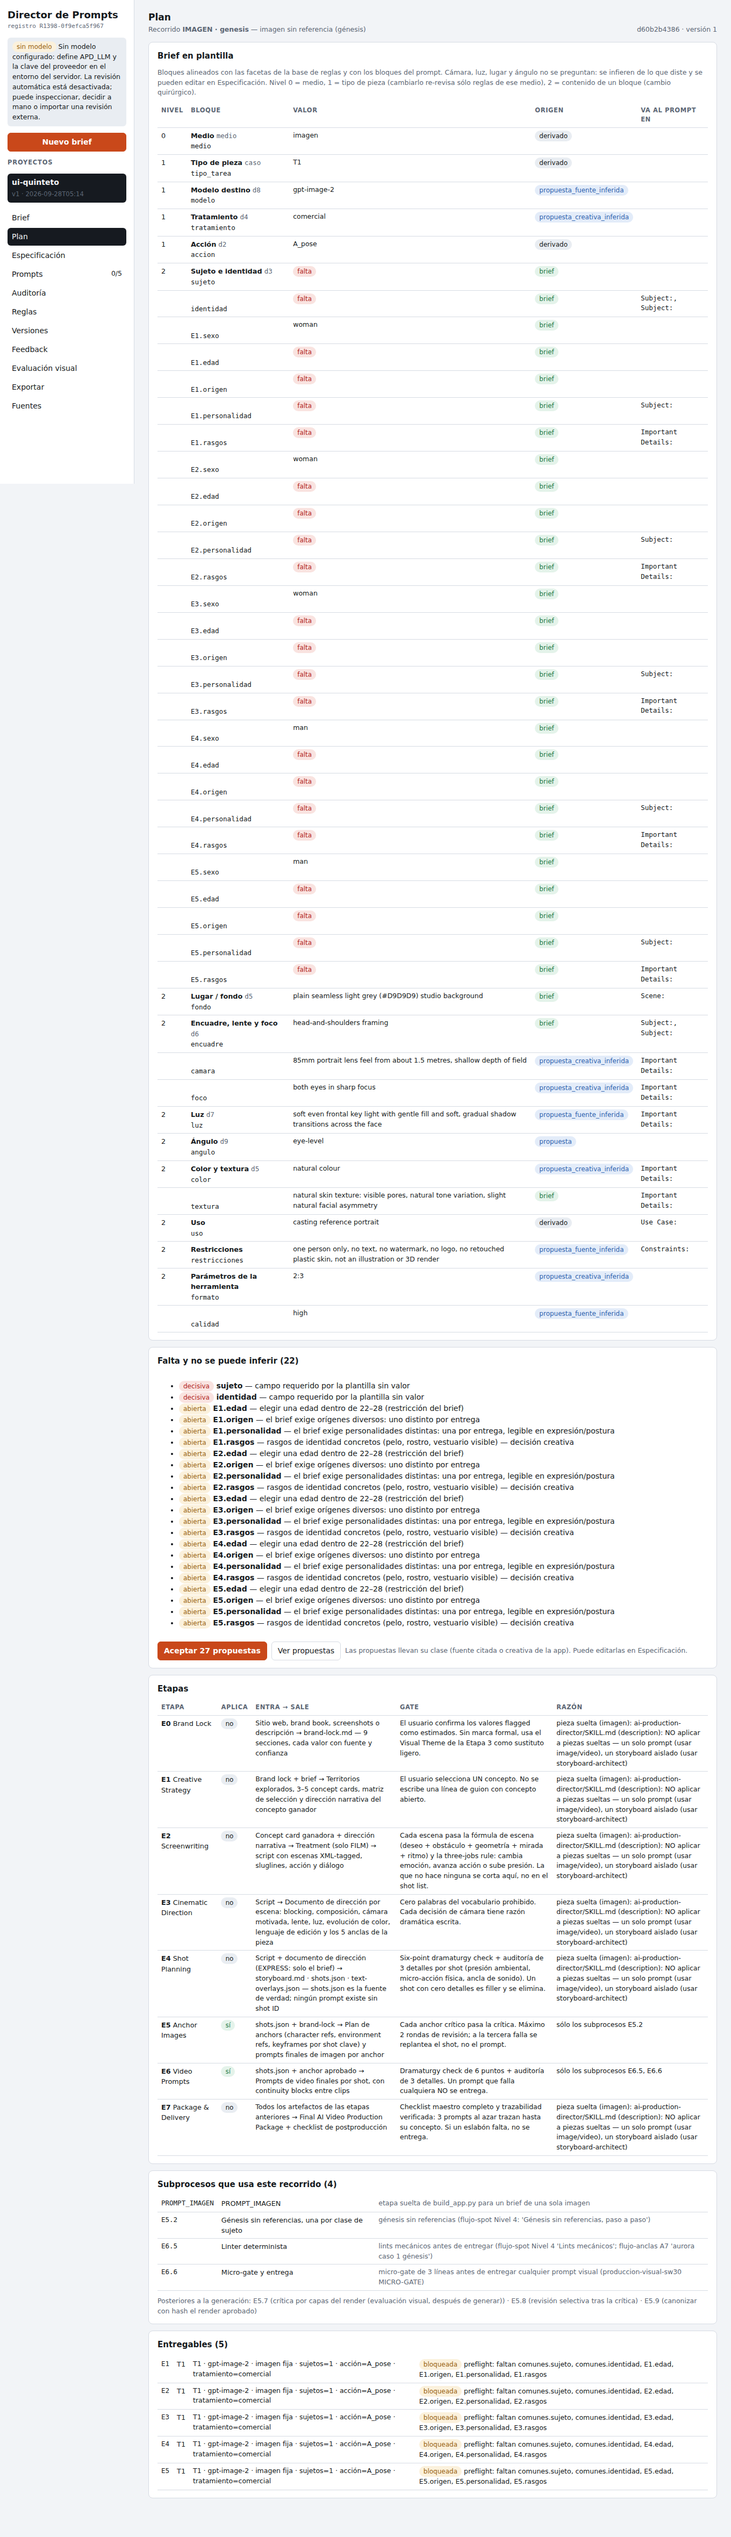
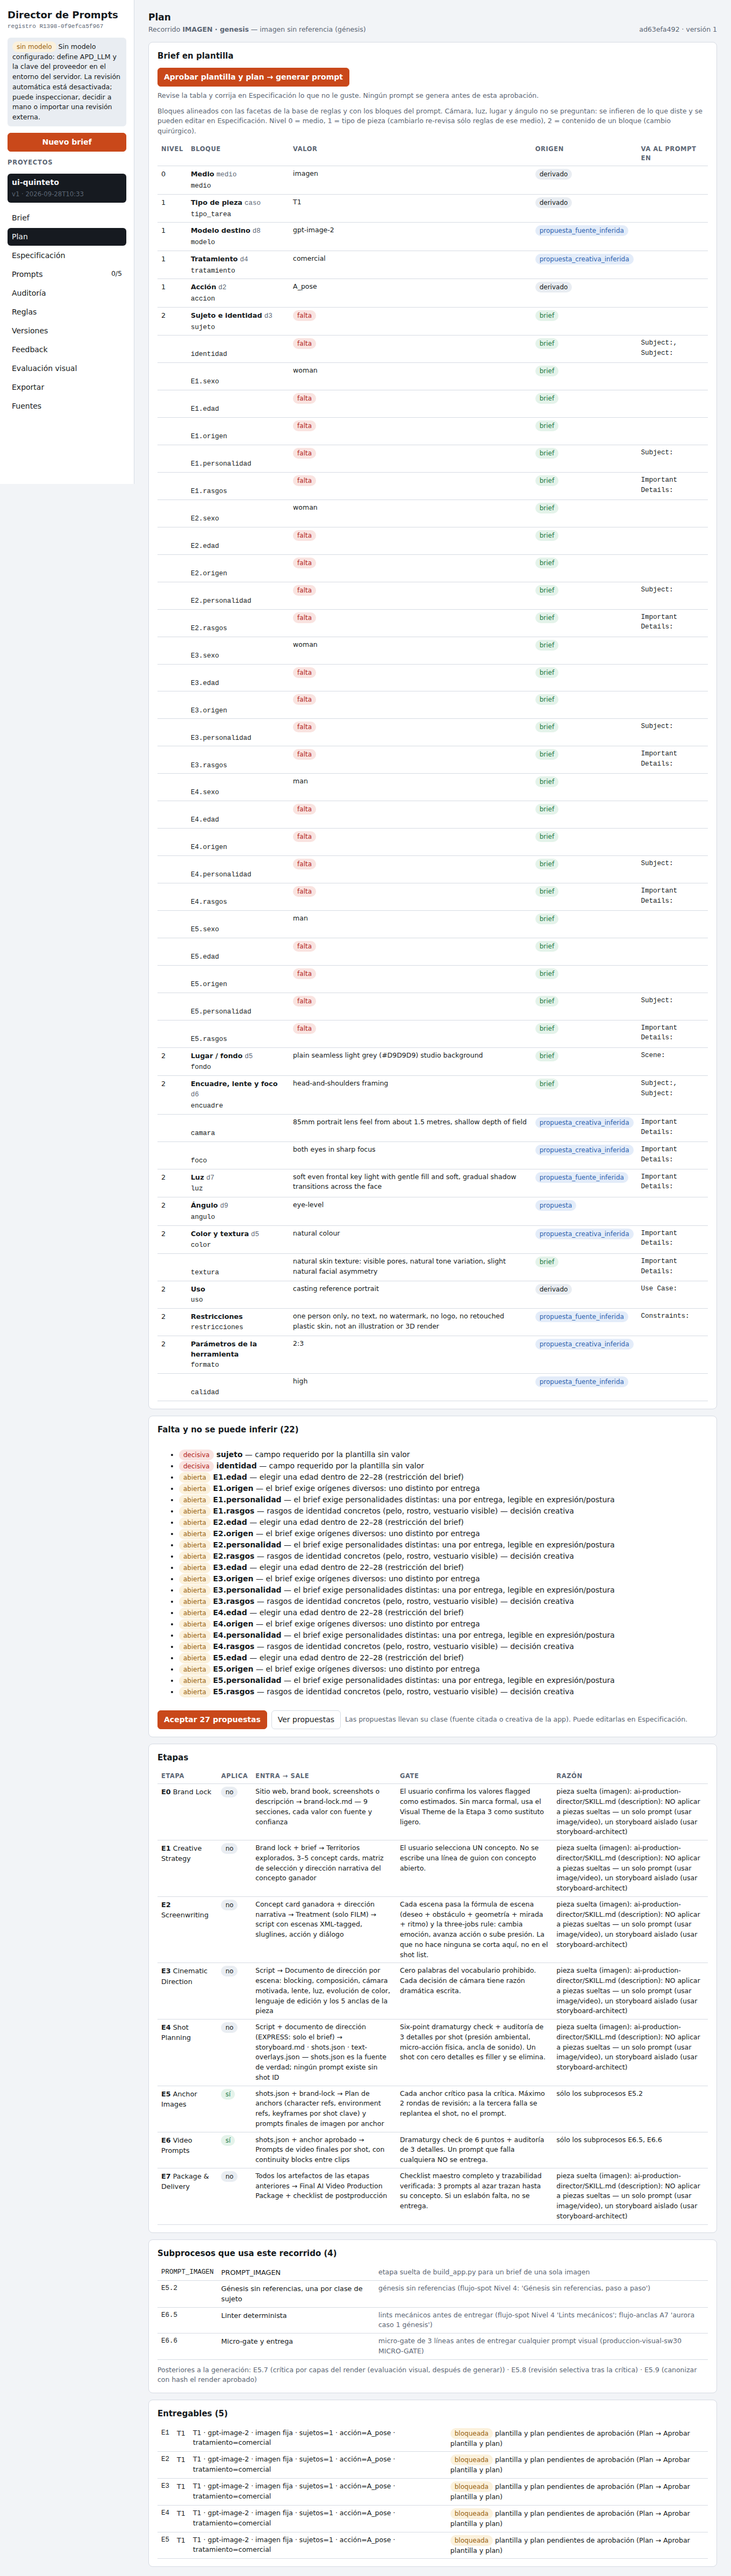
Approve template and plan before any prompt is compiled
The brief template is presented for review: no prompt is compiled until the
user clicks "Aprobar plantilla y plan"; on approval the prompts compile and
the deterministic audit (original gates) runs by itself, and again after
every edit, so prompts no longer sit as "sin auditoría".
The model can no longer write descriptions into tool parameters (quality got
"sharp product details..." from gpt-5.6-terra); calidad/formato/duracion
only accept their closed vocabulary.
Tests: 83 unit, 31/31 browser checks (new U8.aprobar_plan).

Claude-Session: https://claude.ai/code/session_01MahmQSRjP9DZdqvCZbwbpx

Changed region(s): [[0.2162, 0.0, 0.9574, 0.9966], [0.0, 0.0, 0.1544, 0.1557], [0.8647, 0.1246, 0.9265, 0.1869]]

diff --git a/apd/web/app.js b/apd/web/app.js
@@ -108,6 +108,8 @@ function vPlan() {
   const amb = p.spec.ambiguedades || [];
   $('#main').innerHTML = cab('Plan', `Recorrido <b>${esc(pl.recorrido)}${pl.subtipo ? ' · ' + esc(pl.subtipo) : ''}${pl.track ? ' · track ' + esc(pl.track) : ''}</b> — ${esc(pl.motivo)}`) + `
   ${p.plantilla ? `<div class="card"><h3>Brief en plantilla</h3>
+    ${p.plan_aprobado ? `<div class="okbox small">Plantilla y plan aprobados${p.aprobacion_plan?.aprobada ? ` por ${esc(p.aprobacion_plan.aprobada.autor)} (${esc(p.aprobacion_plan.aprobada.fecha)})` : ''}. Los prompts se compilaron y la auditoría automática ya corrió.</div>`
+      : `<div class="row"><button class="prim" id="aprPlan">Aprobar plantilla y plan → generar prompt</button><span class="small mute">Revise la tabla y corrija en Especificación lo que no le guste. Ningún prompt se genera antes de esta aprobación.</span></div>`}
     ${p.plantilla_info?.modelo?.error ? `<div class="err small">El modelo no pudo rellenar la plantilla; se usaron las reglas deterministas. Motivo: <span class="mono small">${esc(p.plantilla_info.modelo.error)}</span></div>`
       : p.plantilla_info?.modelo ? `<p class="small">${pill('modelo', 'ok')} rellenó ${(p.plantilla_info.modelo.campos || []).length} campos.</p>` : ''}
     <p class="small mute">Bloques alineados con las facetas de la base de reglas y con los bloques del prompt. Cámara, luz, lugar y ángulo no se preguntan: se infieren de lo que diste y se pueden editar en Especificación. Nivel 0 = medio, 1 = tipo de pieza (cambiarlo re-revisa sólo reglas de ese medio), 2 = contenido de un bloque (cambio quirúrgico).</p>
@@ -131,6 +133,7 @@ function vPlan() {
   ${pl.recorrido === 'SPOT' ? `<div class="card"><h3>shots.json</h3><p class="small">Desde E4 shots.json es la fuente de verdad (APD §6.3). Cargue el archivo: se valida contra <span class="mono">shots.schema.json</span> original y cada shot produce un ancla FF y un clip vinculados.</p>
      <input type="file" id="shotsF" accept=".json"><div class="row"><label class="small">Modelo imagen <select id="shMi"><option>gpt-image-2</option><option>nano-banana-pro</option></select></label><label class="small">Modelo video <select id="shMv"><option>kling</option><option>veo</option><option>seedance</option></select></label><button id="shGo">Cargar shots</button></div></div>` : ''}
   <div class="card"><h3>Entregables (${Object.keys(p.entregas).length})</h3><table>${Object.values(p.entregas).map(e => `<tr><td class="mono">${esc(e.id)}</td><td>${esc(e.casos.join('/'))}</td><td class="small">${esc(e.perfil_etiqueta)}</td><td class="small">${e.bloqueo ? pill('bloqueada', 'warn') + ' ' + esc(e.bloqueo) : pill('compilada', 'info')}</td></tr>`).join('')}</table></div>`;
+  const ap = $('#aprPlan'); if (ap) ap.onclick = async () => { ap.disabled = true; ap.textContent = 'Generando prompt y auditando…'; try { S.p = await api(`/api/proyectos/${S.pid}/aprobar-plan`, {method: 'POST', body: {}}); S.tab = 'prompts'; render(); } catch (x) { aviso(x.message); ap.disabled = false; } };
   const a = $('#acepta'); if (a) a.onclick = async () => { await api(`/api/proyectos/${S.pid}/propuestas`, {method: 'POST', body: {}}); await recargar(); };
   const vp = $('#verProp'); if (vp) vp.onclick = () => modal(`<h3>Propuestas</h3><table><tr><th>Campo</th><th>Valor</th><th>Clase</th><th>Fuente</th></tr>${S.p.propuestas.map(x => `<tr><td class="mono">${esc(x.ruta)}</td><td>${esc(x.valor ?? x.estado)}</td><td>${pill(x.clase, x.clase === 'fuente' ? 'info' : 'warn')}</td><td class="small">${esc(x.fuente || x.motivo)}</td></tr>`).join('')}</table>`);
   document.querySelectorAll('[data-gate]').forEach(b => b.onclick = async () => { const art = prompt(`Artefacto aprobado para ${b.dataset.gate} (texto o referencia; queda con hash):`, ''); if (art === null) return; await api(`/api/proyectos/${S.pid}/gates`, {method: 'POST', body: {gate: b.dataset.gate, artefacto: art}}); await recargar(); });

diff --git a/apd/apd/proyecto.py b/apd/apd/proyecto.py
@@ -83,16 +83,38 @@ def spec_de_entrega(spec: dict, ent: dict) -> dict:
 
 # --------------------------------------------------------------------------- creación y recálculo
 
-def nuevo(brief: dict, nombre: str | None = None) -> str:
+def nuevo(brief: dict, nombre: str | None = None, aprobar_plan_como: str | None = None) -> str:
     spec = S.analizar_determinista(brief)
     # plantilla de brief: el modelo (si hay) y la app infieren cámara, luz, lugar, ángulo… sin preguntar al usuario
     spec, spec["plantilla_info"] = PB.completar(spec, brief, llm.proveedor().disponible())
     estado = {"brief": brief, "brief_hash": F.sha256_text(F.canon_json(brief)), "spec": spec,
               "decisiones_humanas": {}, "aprobaciones": {}, "semantica": {}, "auditorias": {}, "etapas": {},
-              "excepciones": {}, "historial_feedback": []}
+              "excepciones": {}, "historial_feedback": [],
+              # la plantilla y el plan se presentan para revisión; ningún prompt se compila hasta que el usuario los apruebe
+              "aprobacion_plan": {"requerida": True, "aprobada": None}}
+    if aprobar_plan_como:
+        estado["aprobacion_plan"]["aprobada"] = {"clave": clave_plan(estado), "autor": aprobar_plan_como, "fecha": ST.ahora()}
     estado = recalcular(estado)
     # persistible: sin esto la versión 1 guardaba los resúmenes del ledger pero no las 1,398 decisiones
     return ST.crear_proyecto(nombre or (brief.get("titulo") or brief.get("texto", "")[:60]), persistible(estado))
+
+
+def clave_plan(estado: dict) -> str:
+    """Lo que la aprobación del plan fija: niveles 0 y 1 (medio, tipo de pieza, modelo, tratamiento) y las entregas.
+    Un cambio de nivel 2 (un bloque) no reabre la aprobación (U-2026-09-28-CAMBIO-QUIRURGICO); uno de nivel 0-1 sí."""
+    c = estado["spec"]["comunes"]
+    fijo = {k: (c.get(k) or {}).get("valor") for k in ("medio", "tipo_tarea", "modelo", "tratamiento")}
+    fijo["entregas"] = [[e["id"], e.get("casos")] for e in estado["spec"]["entregas"]]
+    return F.sha256_text(F.canon_json(fijo))[:16]
+
+
+def plan_aprobado(estado: dict) -> bool:
+    """La aprobación se da una vez, al revisar la plantilla. Las ediciones posteriores las hace el propio usuario en
+    Especificación con la plantilla a la vista, así que no la reabren (sólo recompilan lo que tocan)."""
+    ap = estado.get("aprobacion_plan")
+    if not ap or not ap.get("requerida"):
+        return True  # proyectos anteriores a la aprobación de plan
+    return bool(ap.get("aprobada"))
 
 
 def recalcular(estado: dict, previo: dict | None = None) -> dict:
@@ -147,7 +169,10 @@ def recalcular(estado: dict, previo: dict | None = None) -> dict:
                               "recibo": L.recibo(reg, dec, conflictos)}
         info = {"perfil": clave, "casos": ent["casos"], "vinculos": ent.get("vinculos", {})}
         faltan = S.preflight_entrega(spec, ent)["faltan"]
-        if gates_abiertos:
+        if not plan_aprobado(estado):
+            info["compilado"] = None
+            info["bloqueo"] = "plantilla y plan pendientes de aprobación (Plan → Aprobar plantilla y plan)"
+        elif gates_abiertos:
             info["compilado"] = None
             info["bloqueo"] = "gates del recorrido sin aprobar: " + ", ".join(gates_abiertos)
         elif faltan:
@@ -378,7 +403,29 @@ def _texto_bloque(b):
 def cambiar_campos(pid, cambios, autor="usuario", nota="edición de campos"):
     def m(e):
         e["spec"], _ = S.aplicar_cambios(e["spec"], cambios, autor)
-    return nueva_version(pid, m, autor, nota)
+    r = nueva_version(pid, m, autor, nota)
+    _auditar_si_hay_texto(pid)
+    return r
+
+
+def aprobar_plan(pid, autor="usuario"):
+    """El usuario revisó la plantilla y el plan: recién ahora se compilan los prompts, y la auditoría determinista
+    (gates originales) corre sola sobre ellos. Vale mientras no cambien los niveles 0-1 (ver clave_plan)."""
+    def m(est):
+        est.setdefault("aprobacion_plan", {"requerida": True})
+        est["aprobacion_plan"]["aprobada"] = {"clave": clave_plan(est), "autor": autor, "fecha": ST.ahora()}
+    r = nueva_version(pid, m, autor, "aprobación de plantilla y plan")
+    _auditar_si_hay_texto(pid)
+    return r
+
+
+def _auditar_si_hay_texto(pid):
+    """La auditoría determinista no cuesta modelo: se ejecuta sola cada vez que hay texto nuevo, en vez de dejar
+    el prompt marcado «sin auditoría» hasta que alguien pulse un botón."""
+    n, e = cargar(pid)
+    if any((i.get("compilado") or {}).get("hash") and (e["auditorias"].get(k) or {}).get("texto_hash") != i["compilado"]["hash"]
+           for k, i in e["entregas"].items()):
+        auditar(pid)
 
 
 def aceptar_propuestas(pid, rutas: list[str] | None = None, autor="usuario"):

diff --git a/apd/tests/test_flujos.py b/apd/tests/test_flujos.py
@@ -304,3 +304,63 @@ class TestPlantillaBrief(unittest.TestCase):
 
 if __name__ == "__main__":
     unittest.main()
+
+
+class TestAprobacionPlan(unittest.TestCase):
+    """La plantilla y el plan se presentan para revisión: ningún prompt se compila antes de que el usuario los apruebe;
+    al aprobar se compila y la auditoría determinista corre sola. Un cambio de bloque (nivel 2) no reabre la aprobación."""
+
+    BRIEF = {"texto": "Foto de producto de una botella de perfume de vidrio sobre mármol blanco, para Instagram 4:5"}
+
+    def test_sin_aprobacion_no_hay_prompt_y_al_aprobar_se_compila_y_audita(self):
+        pid = P.nuevo_sin_aprobar(self.BRIEF, "aprobar-plan")
+        n, e = P.cargar(pid)
+        self.assertFalse(P.plan_aprobado(e))
+        # el usuario revisa la plantilla y completa lo que falta (sin modelo, el sujeto del producto) antes de aprobar
+        P.cambiar_campos(pid, [{"ruta": "comunes.sujeto", "valor": "a glass perfume bottle"}])
+        n, e = P.cargar(pid)
+        self.assertIsNone(e["entregas"]["E1"]["compilado"])
+        for info in e["entregas"].values():
+            self.assertIsNone(info["compilado"])
+            self.assertIn("pendientes de aprobación", info["bloqueo"])
+        P.aprobar_plan(pid, "director")
+        n, e = P.cargar(pid)
+        self.assertTrue(P.plan_aprobado(e))
+        for eid, info in e["entregas"].items():
+            self.assertTrue(info["compilado"]["hash"])
+            self.assertEqual(e["auditorias"][eid]["texto_hash"], info["compilado"]["hash"])  # auditoría automática
+
+    def test_cambio_de_bloque_no_reabre_la_aprobacion(self):
+        pid = P.nuevo_sin_aprobar(self.BRIEF, "aprobar-plan-bloque")
+        P.cambiar_campos(pid, [{"ruta": "comunes.sujeto", "valor": "a glass perfume bottle"}])
+        P.aprobar_plan(pid, "director")
+        P.cambiar_campos(pid, [{"ruta": "comunes.luz", "valor": "hard sunlight from the right"}])
+        n, e = P.cargar(pid)
+        self.assertTrue(P.plan_aprobado(e))
+        self.assertIn("hard sunlight", e["entregas"]["E1"]["compilado"]["texto"].lower())
+
+    def test_edicion_del_usuario_no_pide_otra_aprobacion(self):
+        pid = P.nuevo_sin_aprobar(self.BRIEF, "aprobar-plan-modelo")
+        P.cambiar_campos(pid, [{"ruta": "comunes.sujeto", "valor": "a glass perfume bottle"}])
+        P.aprobar_plan(pid, "director")
+        P.cambiar_campos(pid, [{"ruta": "comunes.modelo", "valor": "nano-banana-pro"}])
+        n, e = P.cargar(pid)
+        self.assertTrue(P.plan_aprobado(e))
+        self.assertTrue(e["entregas"]["E1"]["compilado"]["hash"])
+
+
+class TestParametrosDelModelo(unittest.TestCase):
+    def test_modelo_no_puede_poner_descripcion_en_un_parametro(self):
+        """Visto con gpt-5.6-terra: puso «sharp product details…» en quality. Un parámetro sólo acepta su vocabulario."""
+        from apd import llm
+        def fn(sistema, usuario):
+            return json.dumps({"comunes": {"calidad": {"valor": "sharp product details, clean glass reflections", "origen": "inferido"},
+                                           "sujeto": {"valor": "a glass perfume bottle", "origen": "usuario"}}, "entregas": []})
+        llm.fijar(llm.Falso(fn))
+        try:
+            pid = P.nuevo({"texto": "Foto de producto de una botella de perfume de vidrio sobre mármol blanco"}, "param")
+        finally:
+            llm.fijar(None)
+        n, e = P.cargar(pid)
+        self.assertEqual(e["spec"]["comunes"]["calidad"]["valor"], "high")  # la propuesta citada de la app, no el texto del modelo
+        self.assertEqual(e["spec"]["comunes"]["sujeto"]["origen"], "brief_modelo")

diff --git a/apd/apd/plantilla_brief.py b/apd/apd/plantilla_brief.py
@@ -134,9 +134,18 @@ Reglas:
 - Valores del prompt en inglés, concretos y visibles; sin vocabulario prohibido (stunning, epic, masterpiece, cinematic,
   beautiful lighting, professional, high quality); nada de emociones nombradas: señales físicas.
 - Si un dato de contenido no está y no se puede inferir (p. ej. quién es el sujeto), pon null: se mostrará como faltante.
+- "calidad", "formato" y "duracion" son parámetros de la herramienta, no descripción: calidad sólo low|medium|high|auto
+  (GPT Image) o 1K|2K|4K (Nano Banana); formato sólo una relación de aspecto como 4:5; si no lo sabes, null.
 Responde SOLO JSON: {"comunes": {"<campo>": {"valor": ..., "origen": "usuario"|"inferido", "porque": "..."}},
  "entregas": [{"id": "E1", "campos": {"<campo>": {"valor": ..., "origen": ..., "porque": "..."}}}]}
 Campos comunes posibles: """ + ", ".join(S.TODOS)
+
+
+# Parámetros de la herramienta (van fuera del texto): el modelo sólo puede poner un valor de su vocabulario cerrado.
+# gpt-image.md:43-49 (low/medium/high/auto) · nano-banana (1K/2K/4K) · formato = relación de aspecto.
+PARAMETROS = {"calidad": re.compile(r"low|medium|high|auto|[124]K", re.I),
+              "formato": re.compile(r"\d{1,2}:\d{1,2}"),
+              "duracion": re.compile(r"\d{1,3}\s*s?")}
 
 
 def rellenar_con_modelo(brief: dict, spec: dict) -> tuple[list[dict], dict]:
@@ -151,6 +160,8 @@ def rellenar_con_modelo(brief: dict, spec: dict) -> tuple[list[dict], dict]:
     j = llm.extraer_json(r["texto"])
     cambios = []
     for k, x in (j.get("comunes") or {}).items():
+        if k in PARAMETROS and not (isinstance(x, dict) and PARAMETROS[k].fullmatch(str(x.get("valor") or ""))):
+            continue  # parámetro de la herramienta con valor que no es de su vocabulario: lo decide la app, no el modelo
         if k in spec["comunes"] and spec["comunes"][k]["estado"] == "OPEN" and isinstance(x, dict) and x.get("valor") not in (None, ""):
             cambios.append({"ruta": f"comunes.{k}", "valor": x["valor"], "origen": "inferido_modelo" if x.get("origen") != "usuario" else "brief_modelo",
                             "fuente": f"modelo: {x.get('porque', '')}"[:300]})
@@ -158,6 +169,8 @@ def rellenar_con_modelo(brief: dict, spec: dict) -> tuple[list[dict], dict]:
     for ent in j.get("entregas") or []:
         e = ids.get(ent.get("id"))
         for k, x in ((ent.get("campos") or {}).items() if e else []):
+            if k in PARAMETROS and not (isinstance(x, dict) and PARAMETROS[k].fullmatch(str(x.get("valor") or ""))):
+                continue
             f = e["campos"].get(k)
             if f and f["estado"] == "OPEN" and isinstance(x, dict) and x.get("valor") not in (None, ""):
                 cambios.append({"ruta": f"{e['id']}.{k}", "valor": x["valor"], "origen": "inferido_modelo",

diff --git a/apd/server.py b/apd/server.py
@@ -96,7 +96,8 @@ def vista_proyecto(pid, n=None):
                nota=(f"La selección mecánica ya decidió las {len(reg.reglas):,} reglas; el modelo sólo revisa las {n_rev} que quedaron "
                      f"abiertas, en {RV.paralelo()} llamadas simultáneas (APD_REVISION=todas para revisar todo el medio).")
                if modo == "abiertas" else "Se re-revisan TODAS las reglas del medio de cada perfil (APD_REVISION=todas).")
-    return {"id": pid, "version": n, "estimacion": est, "plantilla": plantilla, "plantilla_info": e["spec"].get("plantilla_info"), "brief": e["brief"], "spec": e["spec"], "plan": e["plan"], "preflight": e["preflight"],
+    return {"id": pid, "version": n, "estimacion": est, "plantilla": plantilla, "plantilla_info": e["spec"].get("plantilla_info"),
+            "plan_aprobado": P.plan_aprobado(e), "aprobacion_plan": e.get("aprobacion_plan"), "brief": e["brief"], "spec": e["spec"], "plan": e["plan"], "preflight": e["preflight"],
             "ledgers": e["ledgers"], "entregas": entregas, "diferencias": e.get("diferencias"),
             "versiones": ST.versiones(pid), "etapas": e.get("etapas", {}), "visual": vis,
             "propuestas": P.PR.proponer(e["spec"]), "decisiones_humanas": e["decisiones_humanas"]}
@@ -315,6 +316,9 @@ class H(BaseHTTPRequestHandler):
                 return self._send(202, {"trabajo": P.revisar_con_modelo(pid)})
             if metodo == "POST" and resto == ["auditar"]:
                 P.auditar(pid, originales=b.get("originales", True))
+                return self._send(200, vista_proyecto(pid))
+            if metodo == "POST" and resto == ["aprobar-plan"]:
+                P.aprobar_plan(pid, b.get("autor") or "usuario")
                 return self._send(200, vista_proyecto(pid))
             if metodo == "POST" and resto == ["feedback"]:
                 return self._send(200, P.feedback(pid, b.get("entrega"), b["texto"]))

diff --git a/apd/tests/test_e2e.py b/apd/tests/test_e2e.py
@@ -112,10 +112,15 @@ class TestHashesEInvalidacion(unittest.TestCase):
         self.assertEqual(d["entregas_intactas"], ["E1", "E3", "E4", "E5"])
         self.assertEqual(d["bloques_regenerados"]["E2"], ["subject"])
         self.assertEqual(d["perfiles_cambiados"], [])
-        self.assertFalse(P.copiar(pid, "E2")["liberable"])
+        # cambio menor (U-2026-09-28-CAMBIO-QUIRURGICO): la aprobación se hereda con rastro y la auditoría determinista
+        # corre sola sobre el texto nuevo; E2 sigue liberable sin re-aprobar ni pulsar «Auditar»
+        n, e2 = P.cargar(pid)
+        h2 = e2["entregas"]["E2"]["compilado"]["hash"]
+        self.assertEqual(e2["auditorias"]["E2"]["texto_hash"], h2)
+        self.assertEqual(e2["aprobaciones"]["E2"]["texto_hash"], h2)
+        self.assertTrue(e2["aprobaciones"]["E2"].get("heredada"))
+        self.assertTrue(P.copiar(pid, "E2")["liberable"])
         self.assertTrue(P.copiar(pid, "E1")["liberable"])
-        with self.assertRaises(PermissionError):
-            P.exportar(pid, como_aprobado=True)
 
     def test_cambio_de_modelo_invalida_todo_el_perfil(self):
         pid = util.proyecto_quinteto("modelo")

diff --git a/apd/tests/util.py b/apd/tests/util.py
@@ -20,6 +20,11 @@ if not F.RULES_DB.exists() or not (F.DATA / "registro.json").exists():
 ST.DB = Path(os.environ["APD_DB"])
 from apd import proyecto as P, llm  # noqa: E402
 
+# Las pruebas actúan como el director: crean el proyecto con la plantilla y el plan ya aprobados. La aprobación en sí
+# se prueba en test_flujos.TestAprobacionPlan con P.nuevo_sin_aprobar.
+P.nuevo_sin_aprobar = P.nuevo
+P.nuevo = lambda brief, nombre=None, aprobar_plan_como="test-humano": P.nuevo_sin_aprobar(brief, nombre, aprobar_plan_como)
+
 BRIEF_QUINTETO = ("Cinco retratos de casting de un quinteto de cuerdas: tres mujeres y dos hombres de 22–28 años, "
                   "orígenes diversos, hombros hacia arriba, fondo gris claro, personalidades distintas y rostros naturales.")
 
